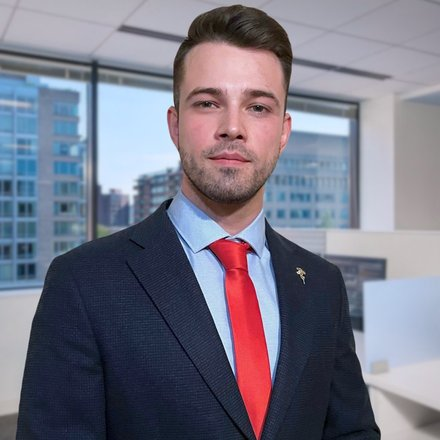
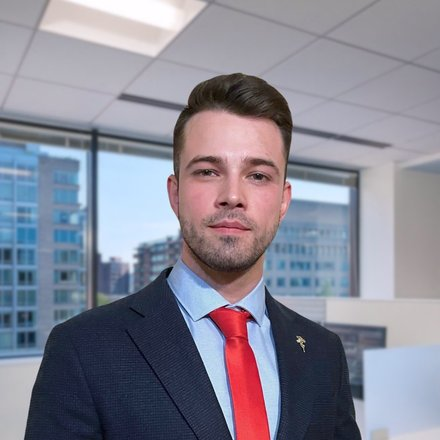
Update founder photo with user-cropped version
- Re-process cropped photo (960x983 → 440x440)
- Reset object-position to center since photo is now properly framed

diff --git a/docs/index.html b/docs/index.html
@@ -1026,7 +1026,7 @@
     </div>
 
     <div class="about-main" data-aos="fade-up">
-        <div class="about-photo"><img src="founder.jpg" alt="Основатель Logic Architecture" width="220" height="220" loading="lazy" style="width:100%;height:100%;object-fit:cover;object-position:center 20%;display:block"></div>
+        <div class="about-photo"><img src="founder.jpg" alt="Основатель Logic Architecture" width="220" height="220" loading="lazy" style="width:100%;height:100%;object-fit:cover;object-position:center center;display:block"></div>
         <div class="about-info">
             <h3>Founder & Architect</h3>
             <div class="about-role">Ex-Head of Systems Analysis · Крупнейшие банки РФ</div>
